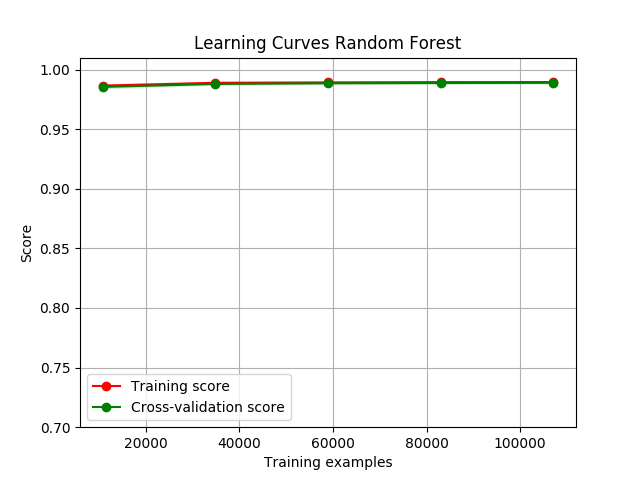
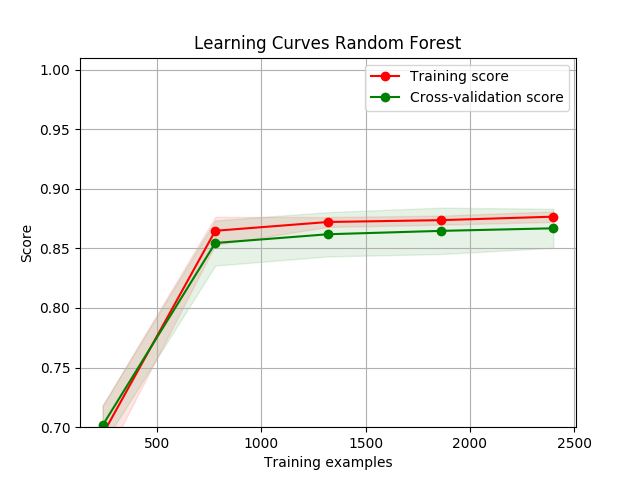
training con suppobox

diff --git a/detect_DGA.py b/detect_DGA.py
@@ -19,8 +19,8 @@ basedir = os.path.dirname(__file__)
 logging.basicConfig(level=logging.DEBUG)
 logger = logging.getLogger(__name__)
 
-n_samples = 32400
-kula = True
+n_samples = 500
+kula = False
 
 if kula:
     n_jobs_pipeline = 8
@@ -221,27 +221,36 @@ def detect(domain):
 def model_training():
     logger.info("Training")
     cv = KFold(n_splits=10)
-    X, y = load_features_dataset(n_samples=n_samples)
+
+    X1, y1 = load_features_dataset()
+    X2, y2 = load_features_dataset(
+        dataset="/home/archeffect/PycharmProjects/detect_DGA/datas/suppobox_dataset.csv")
+    X = np.concatenate((X1, X2), axis=0)
+    y = np.concatenate((y1, y2), axis=0)
+
+    logger.debug(X)
+    logger.debug(y)
+
     scoring = ['f1', 'accuracy', 'precision', 'recall', 'roc_auc']
     clf = RandomForestClassifier(random_state=True, max_features="auto", n_estimators=100,
                                  min_samples_leaf=50, n_jobs=clf_n_jobs, oob_score=True)
     clf.fit(X, y)
     logger.info("clf fitted")
     scores = cross_validate(clf, X, y, scoring=scoring,
-                            cv=cv, return_train_score=False, n_jobs=-1, verbose=1)
-    joblib.dump(clf, os.path.join(basedir, "models/model_RandomForest.pkl"), compress=3)
+                            cv=10, return_train_score=False, n_jobs=-1, verbose=1)
+    joblib.dump(clf, os.path.join(basedir, "models/model_RandomForest_2.pkl"), compress=3)
+    #
     logger.info("scores")
     pprint(scores)
-
     title = "Learning Curves Random Forest"
-    # Cross validation with 100 iterations to get smoother mean test and train
-    # score curves, each time with 20% data randomly selected as a validation set.
+    # # Cross validation with 100 iterations to get smoother mean test and train
+    # # score curves, each time with 20% data randomly selected as a validation set.
     cv = ShuffleSplit(n_splits=10, test_size=0.2, random_state=0)
     plot_learning_curve(clf, title, X, y, ylim=(0.7, 1.01), cv=cv, n_jobs=-1)
-    if kula:
-        plt.savefig(os.path.join(basedir, "models/graph/learning_curve.png"), format="png")
-    else:
-        plt.show()
+    X_train, X_test, y_train, y_test = train_test_split(X, y, test_size=0.50, random_state=RandomState())
+    y_pred = clf.predict(X_test)
+    plot_classification_report(classification_report(y_true=y_test, y_pred=y_pred, target_names=['dga', 'legit']),
+                               n_samples=n_samples)
 
 
 def keras():
@@ -258,6 +267,7 @@ def main():
 
 
 if __name__ == "__main__":
-    save_suppobox_dataset(n_samples)
+    # save_suppobox_dataset(n_samples)
+    model_training()
     logger.info("Exiting...")
     rmtree(cachedir)  # clearing pipeline cache

diff --git a/features/data_generator.py b/features/data_generator.py
@@ -123,8 +123,8 @@ def save_features_dataset(n_samples=None):
     return True
 
 
-def load_features_dataset(n_samples=None):
-    df = pd.DataFrame(pd.read_csv(features_dataset, sep=","))
+def load_features_dataset(n_samples=None, dataset=os.path.join(basedir, features_dataset)):
+    df = pd.DataFrame(pd.read_csv(dataset, sep=","))
     if n_samples:
         df = df.sample(n=n_samples, random_state=RandomState())
     X = df[['mcr', 'ns1', 'ns2', 'ns3', 'ns4', 'ns5', 'len', 'vcr', 'ncr']].values
@@ -195,3 +195,4 @@ def save_suppobox_dataset(n_samples=None):
     df.to_csv(os.path.join(basedir, "../datas/suppobox_dataset.csv"), index=False)
     logger.info("features_dataset.csv saved to disk")
     return True
+
